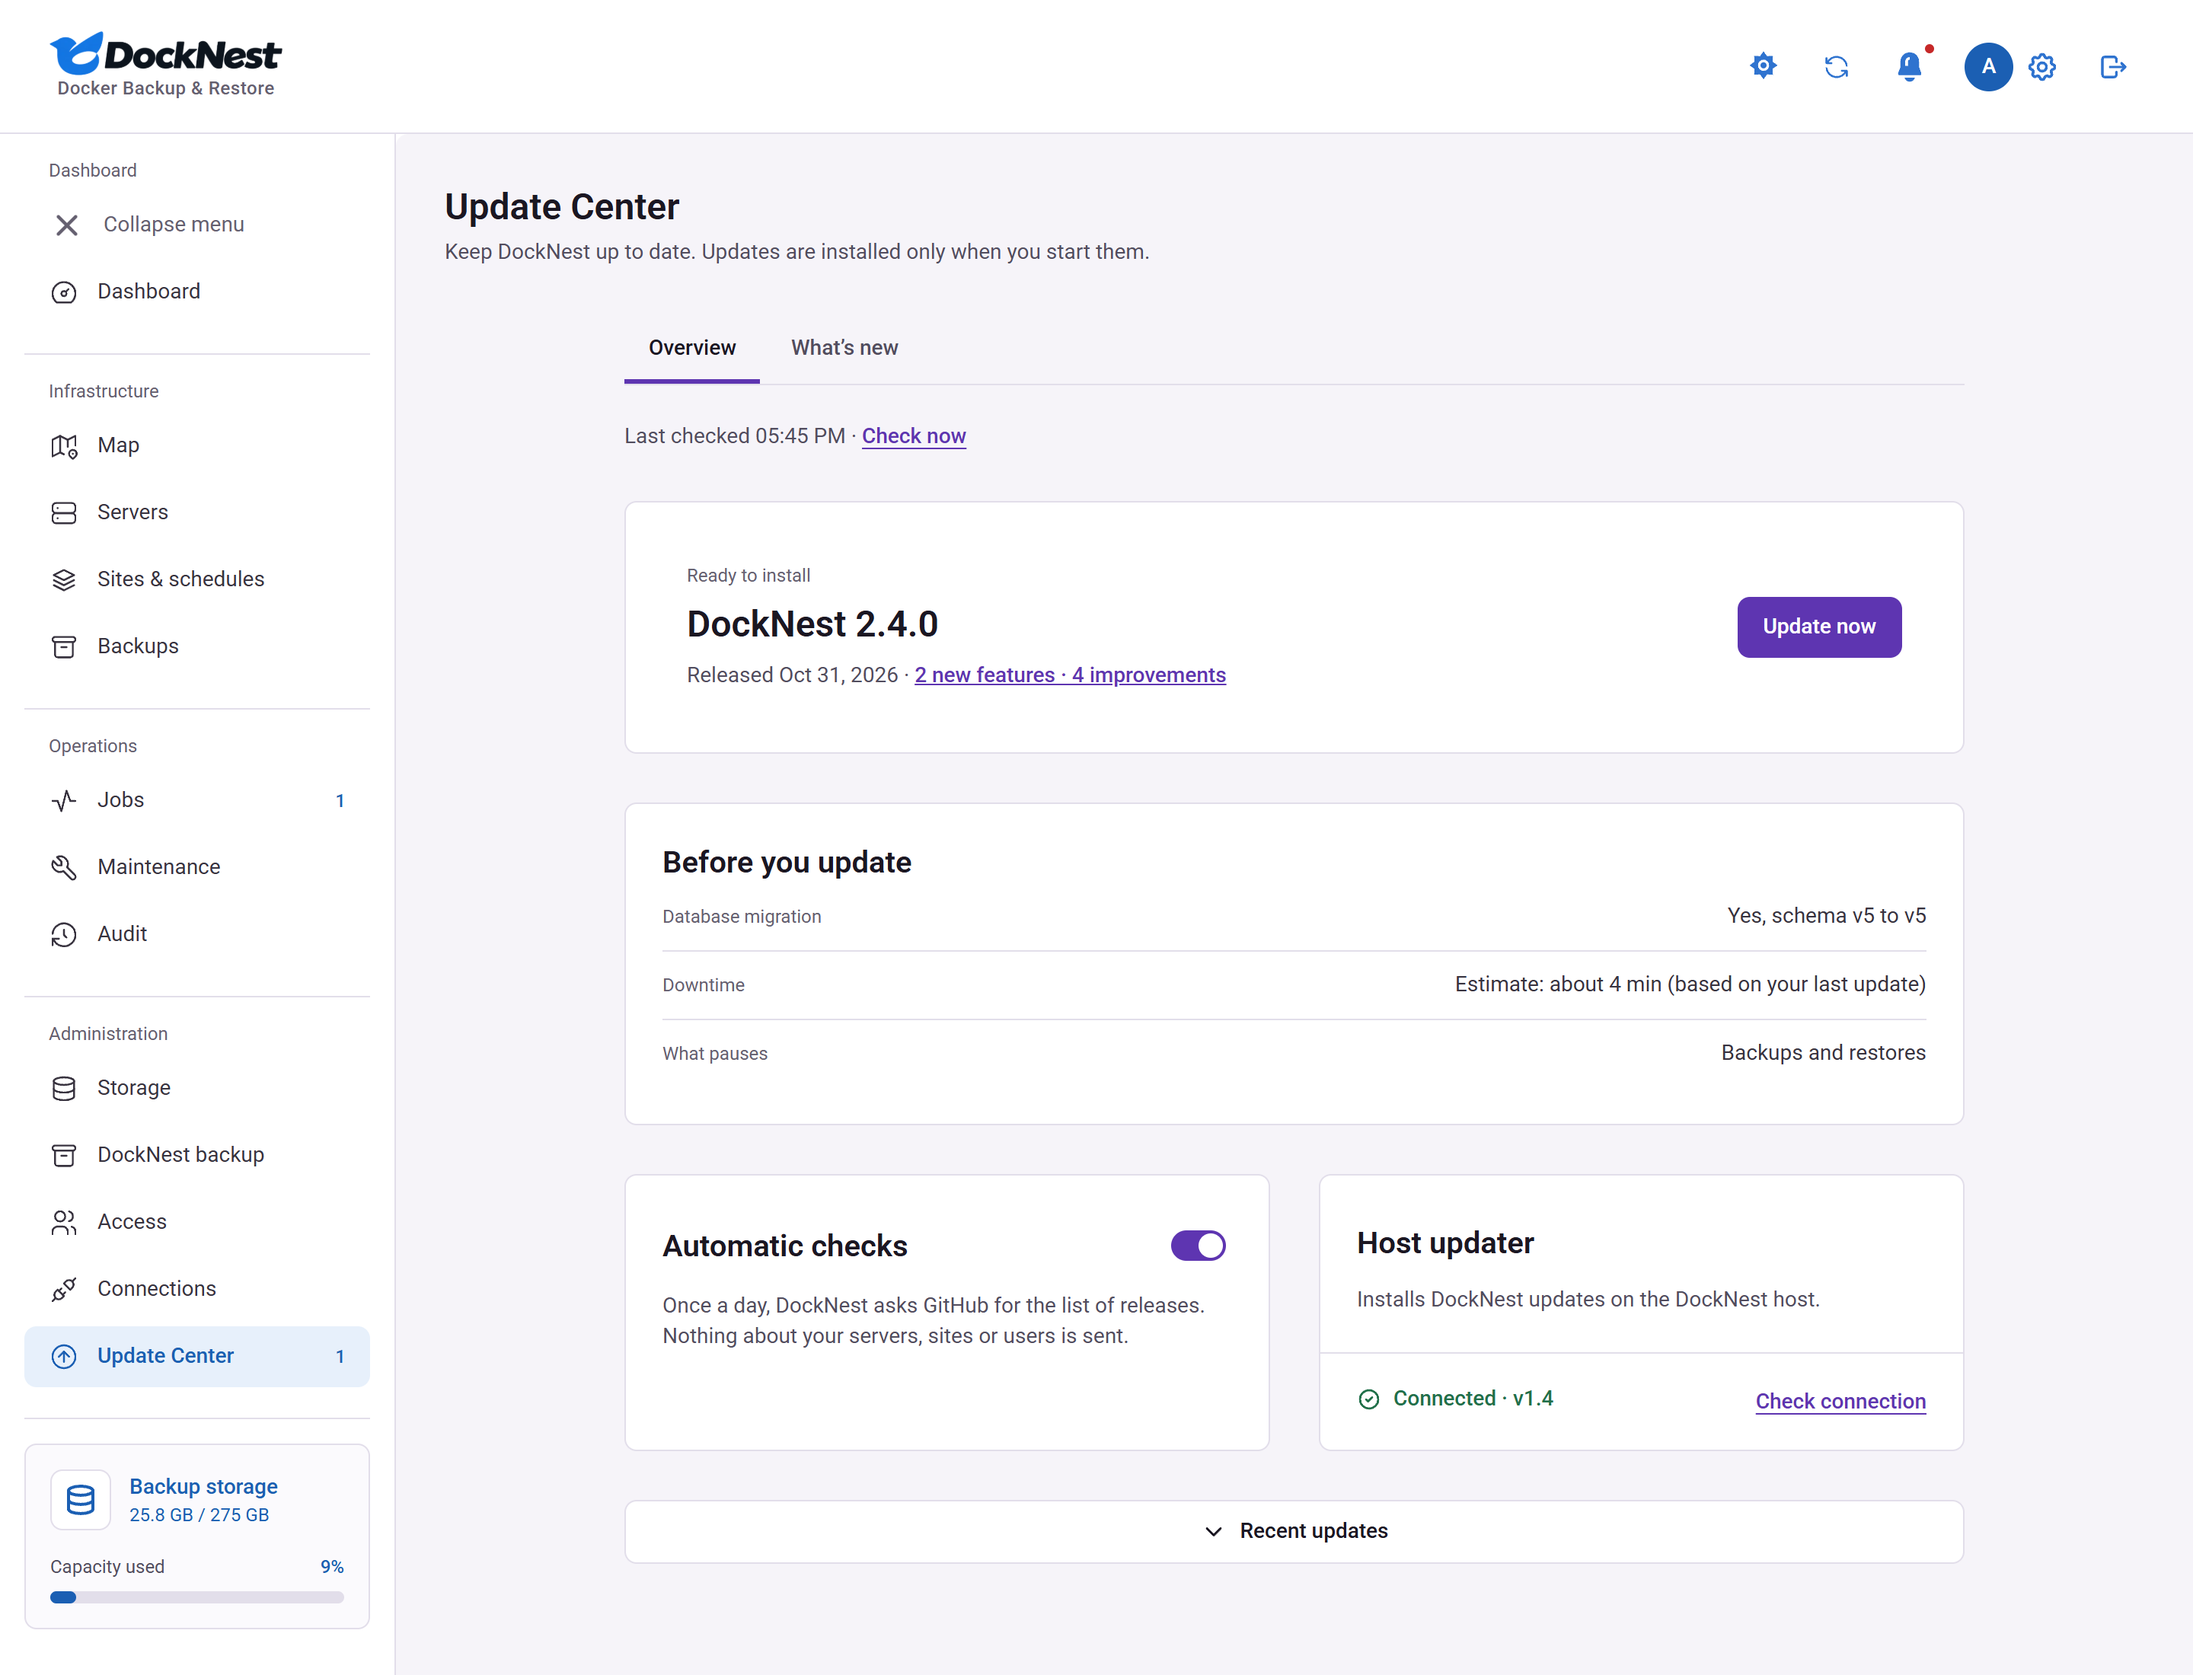
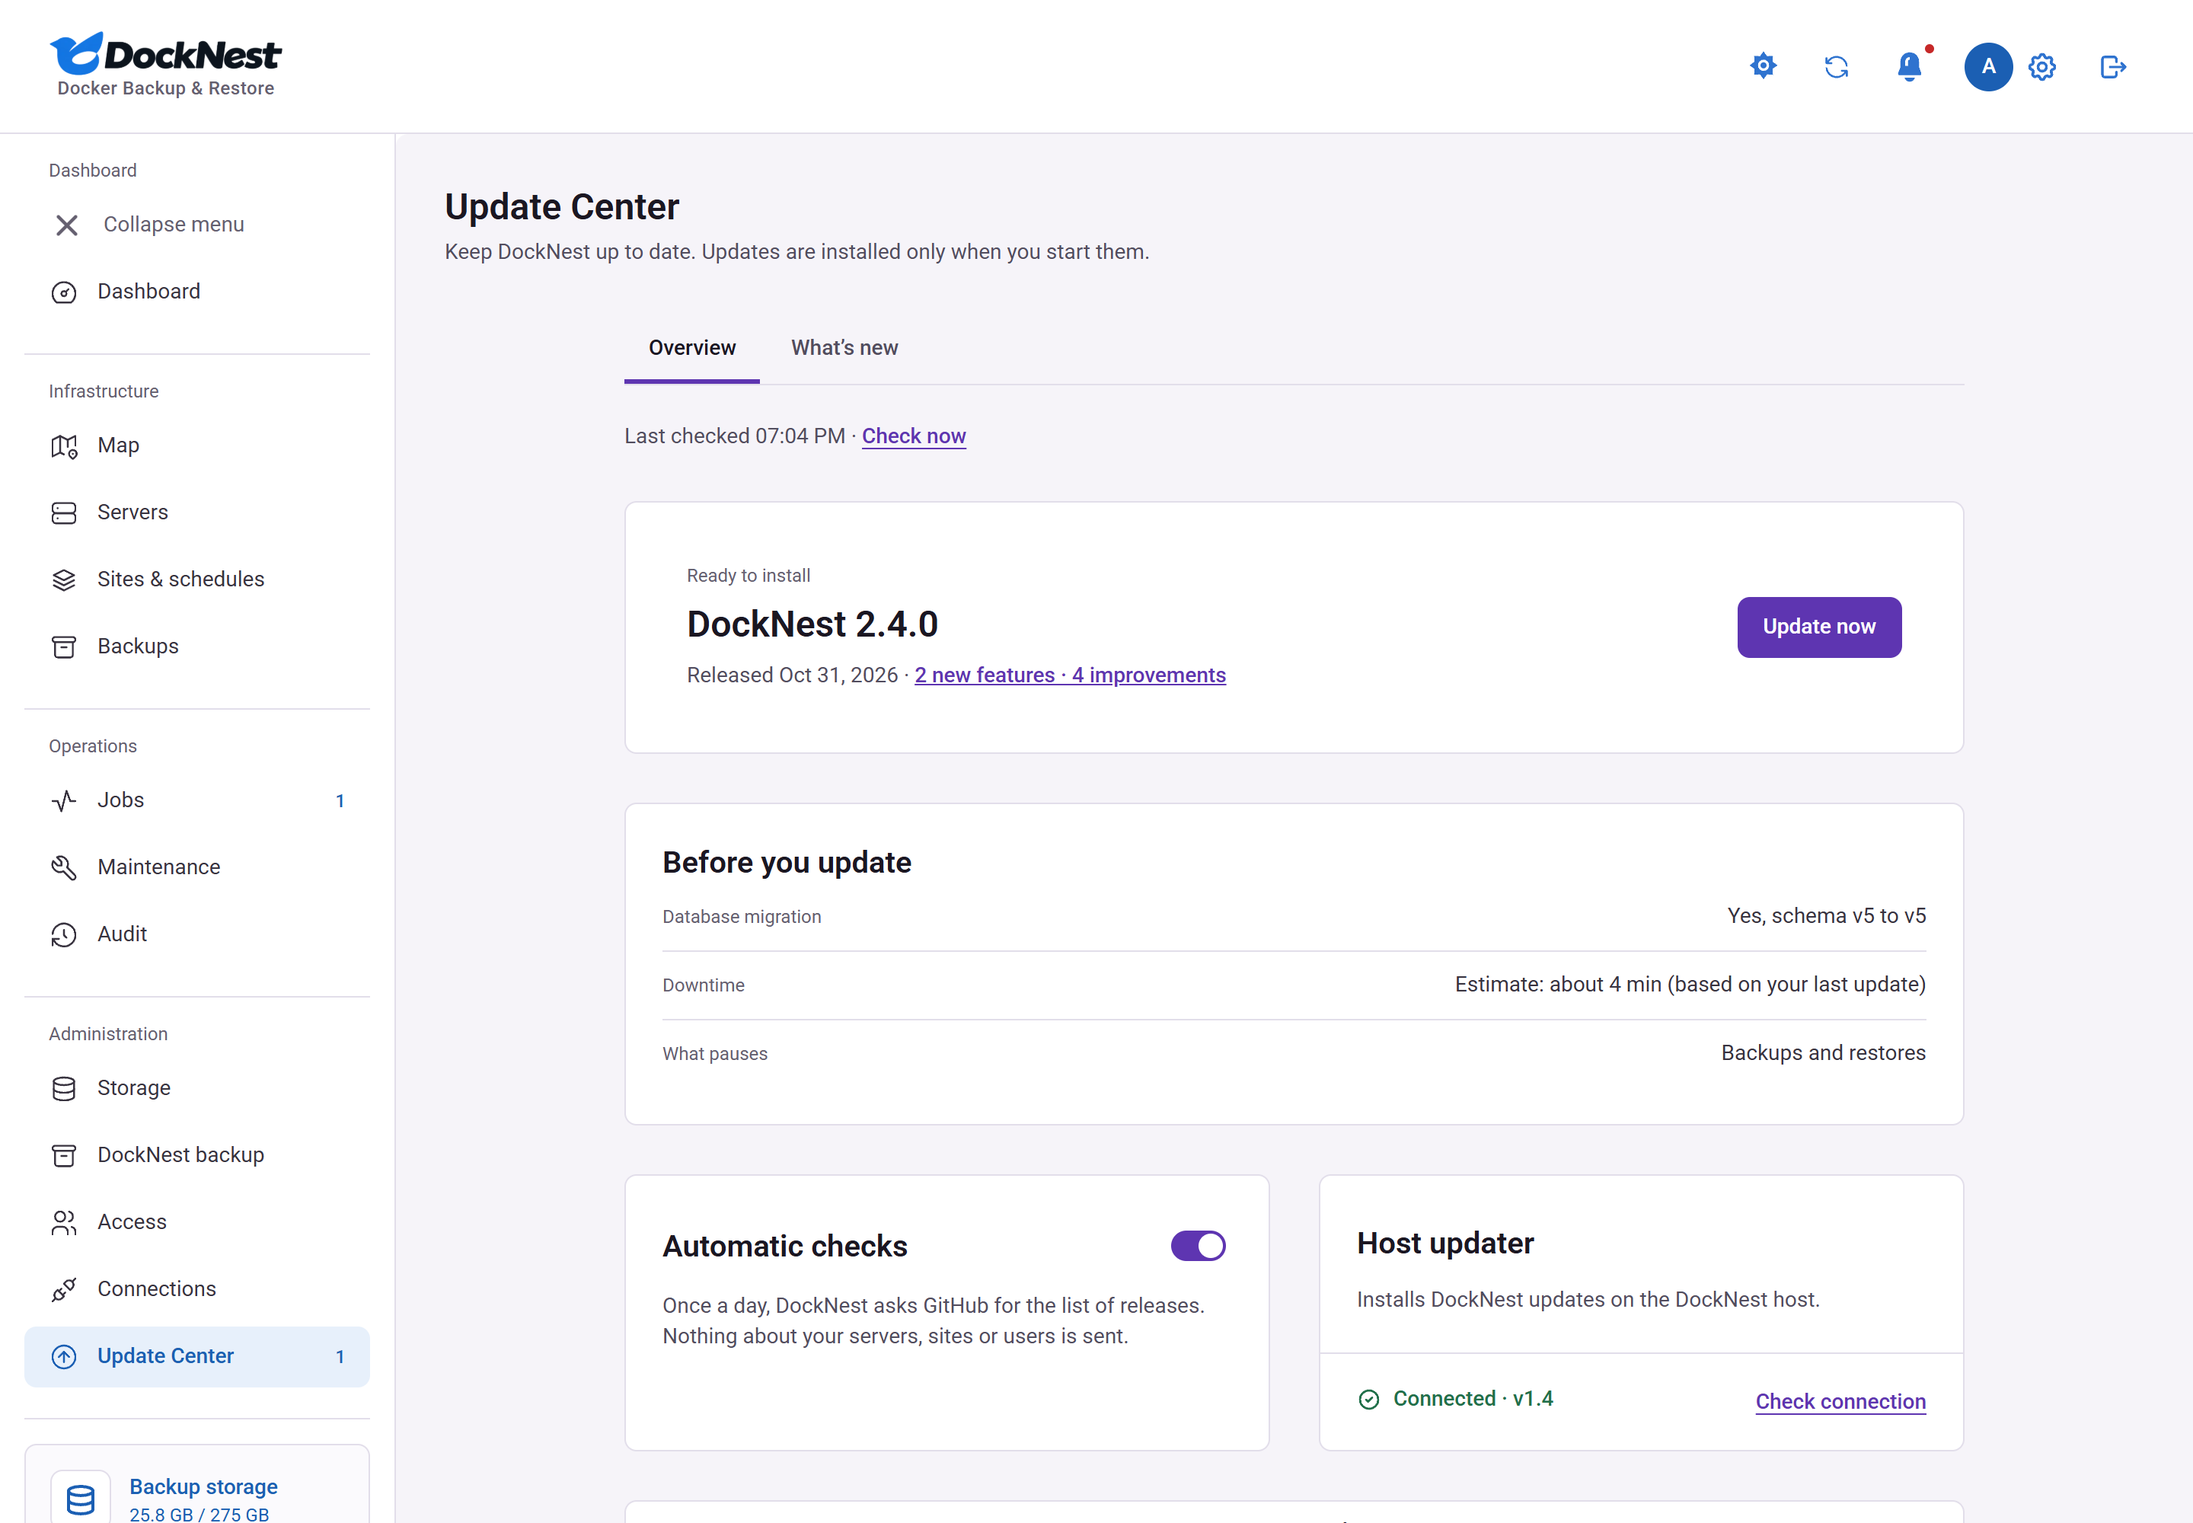
docs: capture the Update Center screenshot at the grid size (2880x2000)
The README 2x2 grid had one taller image, so its row did not line up.

diff --git a/scripts/readme-screenshots.js b/scripts/readme-screenshots.js
@@ -69,7 +69,8 @@ try{
  await page.getByRole('button',{name:'Fit to screen'}).click();await settle(page);
  assert.equal(await page.locator('.map-site').count(),sites.length);await shot(page,'map.png');
  await context.close();
- ({context,page}=await open({height:1100}));
+ // Same 1440x1000 viewport as the other three images in the README's 2x2 grid, so the cells line up.
+ ({context,page}=await open({height:1000}));
  await page.getByRole('navigation').getByRole('button',{name:/Update Center/}).click();
  await page.getByRole('heading',{name:'Update Center',level:1}).waitFor();await settle(page);await shot(page,'update-center.png');
  await context.close();
